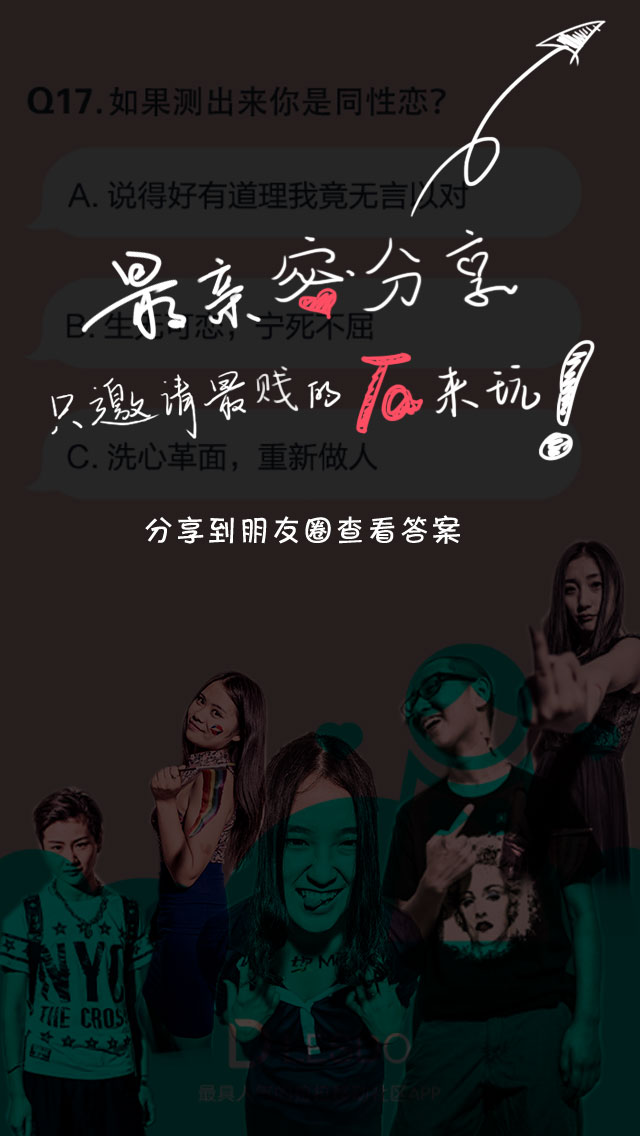
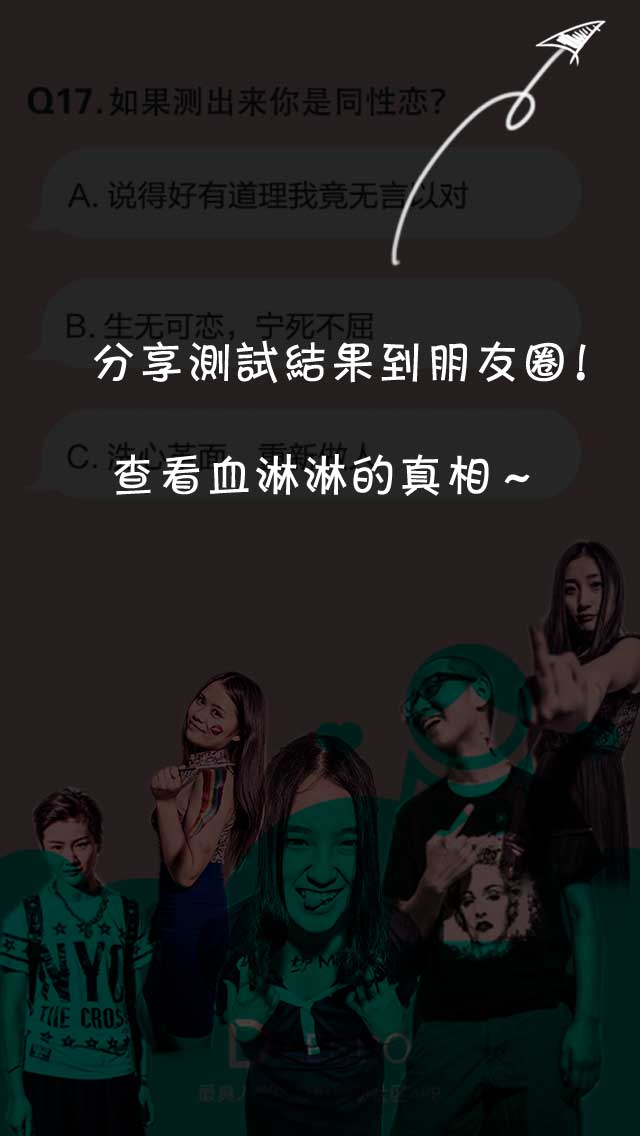
修改

diff --git a/les_do/css/new_g.css b/les_do/css/new_g.css
@@ -72,19 +72,19 @@ body{
 	position: relative;
 	margin: 20px auto 0;
 	padding: 20px 10px;
-	width: 22px;
-	height: 14px;
+	width: 78px;
+	height: 82px;
 	background: url("../image/guide_btn.png") no-repeat;
 	background-size: 22px 14px;
 	background-position: 8px 20px;
 	z-index: 1;
 
-	-webkit-transform: rotate(180deg) scale(1.2);
+	/* -webkit-transform: rotate(180deg) scale(1.2);
 	-webkit-animation-name: arrow;
-    -webkit-animation-duration: .6s;
-    -webkit-animation-iteration-count: infinite;
-    -webkit-animation-direction: alternate;
-    -webkit-animation-timing-function: linear;
+	    -webkit-animation-duration: .6s;
+	    -webkit-animation-iteration-count: infinite;
+	    -webkit-animation-direction: alternate;
+	    -webkit-animation-timing-function: linear; */
 }
 
 

diff --git a/les_do/index.html b/les_do/index.html
@@ -4,7 +4,7 @@
 <meta http-equiv="X-UA-Compatible" content="IE=edge,chrome=1"/>
 <meta name="viewport" content="width=device-width, user-scalable=no, initial-scale=1.0, maximum-scale=1.0, minimum-scale=1.0" />
 <meta http-equiv="Content-Type" content="text/html; charset=UTF-8" />
-<title>神准！我勒个去我竟然是双性恋！不信来测！</title>
+<title>神准！史上最奇葩性取向测试，男士勿入！</title>
 <link rel="apple-touch-icon-precomposed" href="../../i/logo-icon.png">
 <link rel="stylesheet" type="text/css" href="./css/new_g.css" />
 </head>

diff --git a/les_do/js/new_home.js b/les_do/js/new_home.js
@@ -391,7 +391,7 @@
 
 				name: '爷们分享朋友圈  然后低调离开',
 
-				cnt: '都说了男生勿点，你偏要点，是想让我夸你帅呢还是表扬你任性？这里是女人的秘密花园，快点分享给你身边的女朋友们吧！',
+				cnt: '这个测试不适合你！快去分享给你的女生朋友！',
 
 				share: ''
 			}
